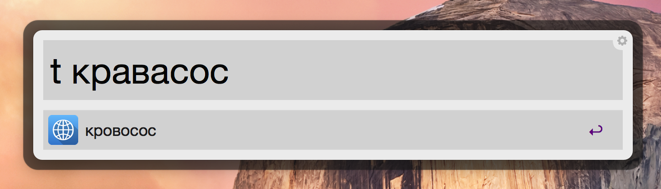
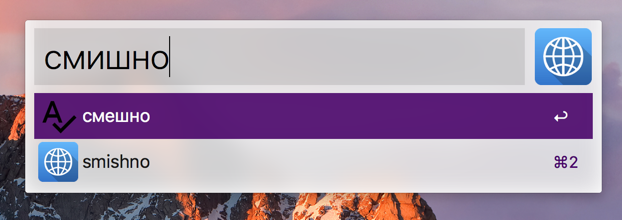
- refactoring - show spellcheck results altogether with translations - speed-up translation by paralleling requests - improve description - update screenshots - update binary

diff --git a/src/translate.py b/src/translate.py
@@ -4,6 +4,8 @@ import urllib
 import urllib2
 import json
 import feedback
+from multiprocessing import Pool
+import re
 
 dict_api_key = 'dict.1.1.20140108T003739Z.52c324b8a4eea3ac.5767100e8cc7b997dad88353e47aa4857e786beb'
 translate_api_key = 'trnsl.1.1.20130512T104455Z.8a0ed400b0d249ba.48af47e72f40c8991e4185556b825273d104af68'
@@ -22,71 +24,134 @@ def get_translation_direction(text):
 		return 'ru-en'
 
 
-def is_word(text):
-	"""Determines word as string without spaces inside"""
-	return not ' ' in text.strip()
+def get_lang(text):
+	"""Returns either 'ru' or 'en' corresponding for text"""
+	if is_ascii(text):
+		return 'en'
+	else:
+		return 'ru'
 
 
-def get_vocabulary_article(word):
-	"""Returns response from vocabulary API"""
-	params = {
+def convert_spelling_suggestions(spelling_suggestions):
+	res = []
+	if len(spelling_suggestions) != 0:
+		for spelling_suggestion in spelling_suggestions:
+			res.append({
+				'title': spelling_suggestion,
+				'autocomplete': spelling_suggestion
+			})
+	return res
+
+
+
+def get_spelling_suggestions(spelling_suggestions):
+	"""Returns spelling suggestions from JSON if any """
+	res = []
+	if spelling_suggestions and spelling_suggestions[0] and spelling_suggestions[0]['s']:
+		res = spelling_suggestions[0]['s']
+	return res
+
+
+
+def get_translation_suggestions(input_string, spelling_suggestions, translation_suggestions, vocabulary_article):
+	"""Returns XML with translate suggestions"""
+	res = []
+	if len(spelling_suggestions) == 0 and len(translation_suggestions) == 0:
+		return res
+
+	if len(vocabulary_article['def']) != 0:
+		for article in vocabulary_article['def']:
+			for translation in article['tr']:
+				if 'ts' in article.keys():
+					subtitle = article['ts']
+				elif 'ts' in translation.keys():
+					subtitle = translation['ts']
+				else:
+					subtitle = ''
+				res.append({
+					'translation': translation['text'],
+					'transcription': subtitle,
+				})
+	if len(res) == 0:
+		if translation_suggestions and len(translation_suggestions['text']) != 0:
+			for translation in translation_suggestions['text']:
+				if translation != input_string.decode('utf-8'):
+					res.append({
+						'translation': translation.replace('\\ ', ' '), # otherwise prints slash before spaces
+						'transcription': ''
+					})
+	return res
+
+
+
+def process_response_as_json(request_url):
+	"""Accepts request url returns response as """
+	request = urllib2.urlopen(request_url)
+	response_json = json.loads(request.read())
+	return response_json
+
+
+
+def get_output(input_string):
+	"""Main entry point"""
+	pool = Pool(processes=3)
+	fb = feedback.Feedback()
+	input_string = input_string.strip()
+	if not input_string:
+		fb.add_item(title="Translation not found", valid="no")
+		return fb
+
+	# Building urls
+	translationDirection = get_translation_direction(input_string)
+
+	# Build spell check url
+	spellCheckParams = {
+		'text': input_string,
+		'lang': get_lang(input_string)
+	}
+	spellCheckUrl = 'https://speller.yandex.net/services/spellservice.json/checkText' + '?' + urllib.urlencode(spellCheckParams)
+
+	# Build article url
+	articleParams = {
 		'key': dict_api_key,
-		'lang': get_translation_direction(word),
-		'text': word,
+		'lang': translationDirection,
+		'text': input_string,
 		'flags': 4
 	}
-	request = urllib2.urlopen('https://dictionary.yandex.net/api/v1/dicservice.json/lookup', urllib.urlencode(params))
-	response_json = json.loads(request.read())
-	return response_json
+	articleUrl = 'https://dictionary.yandex.net/api/v1/dicservice.json/lookup' + '?' + urllib.urlencode(articleParams)
 
-
-def get_translation(text):
-	"""Returns object with translations from API"""
-	params = {
+	# Build translation url
+	translationParams = {
 		'key': translate_api_key,
-		'lang': get_translation_direction(text),
-		'text': text
+		'lang': translationDirection,
+		'text': input_string
 	}
-	request = urllib2.urlopen('https://translate.yandex.net/api/v1.5/tr.json/translate', urllib.urlencode(params))
-	response_json = json.loads(request.read())
-	return response_json
+	translationUrl = 'https://translate.yandex.net/api/v1.5/tr.json/translate' + '?' + urllib.urlencode(translationParams)
 
+	# Making requests in parallel
+	requestsUrls = [spellCheckUrl, translationUrl, articleUrl]
+	responses = pool.map(process_response_as_json, requestsUrls)
 
-def translate_suggestions(text):
-	"""Returns XML with translate suggestions"""
-	fb = feedback.Feedback()
-	if is_word(text):
-		vocabulary_articles = get_vocabulary_article(text)
-		for article in vocabulary_articles['def']:
-			for translation in article['tr']:
-				fb.add_item(title=translation['text'], arg=translation['text'], subtitle=translation['pos'])
-	else:
-		translation_variants = get_translation(text)
-		for translation in translation_variants['text']:
-			fb.add_item(title=translation, arg=translation)
-	return fb
+	spelling_suggestions_items = get_spelling_suggestions(responses[0])
+	# Generate possible xml outputs
+	formatted_spelling_suggestions = convert_spelling_suggestions(spelling_suggestions_items)
+	formated_translation_suggestions = get_translation_suggestions(input_string, spelling_suggestions_items, responses[1], responses[2])
+	words_in_phase = len(re.split(' ', input_string.decode('utf-8')))
 
+	# Output
+	if len(formatted_spelling_suggestions) == 0 and len(formated_translation_suggestions) == 0:
+		fb.add_item(title="Translation not found", valid="no")
+		return fb
 
-def get_spelling_suggestions(text):
-	"""Returns False, if there is no spelling suggestions. Tries to suggest only for words"""
-	if is_word(text):
-		params = {
-			'text': text
-		}
-		request = urllib2.urlopen('http://speller.yandex.net/services/spellservice.json/checkText', urllib.urlencode(params))
-		json_response = json.loads(request.read())
-		if json_response and json_response[0]:
-			return json_response[0]['s']
-		else:
-			return False
-	else:
-		return False
+	# Prepare suggestions output
+	# Spellcheck error
+	if words_in_phase <= 2 and len(formatted_spelling_suggestions) != 0:
+		for spelling_suggestion in formatted_spelling_suggestions:
+			fb.add_item(title=spelling_suggestion['title'],
+				autocomplete=spelling_suggestion['autocomplete'],
+				icon='spellcheck.png')
 
-
-def spelling_suggestions(suggested):
-	"""Accepts spelling suggestions as argument, and returns XMXL with suggestions"""
-	fb = feedback.Feedback()
-	if suggested:
-		for spelling_variant in suggested:
-			fb.add_item(title=spelling_variant, autocomplete=spelling_variant)
+	# Translations output
+	for formatted_translated_suggestion in formated_translation_suggestions:
+		fb.add_item(title=formatted_translated_suggestion['translation'], arg=formatted_translated_suggestion['translation'], subtitle=formatted_translated_suggestion['transcription'])
 	return fb

diff --git a/README.md b/README.md
@@ -1,23 +1,44 @@
-#RU-EN EN-RU Translating Alfred Workflow
+# RU-EN EN-RU Translating Alfred Workflow
 
 [Скачать](https://github.com/podgorniy/alfred-translate/raw/master/Translate.alfredworkflow)
 
-Удобный перевод текстов в en-ru ru-en направлениях. Не нужно указывать направление перевода, работает как с вводимым текстом, так и с выделенным, показывает несколько вариантов перевода для одного слова, автозаполнение для слов с ошибками (**NEW**), результат перевода копируется в буфер обмена. Для работы необходимо интернет соединение.
+Удобный перевод текстов в en-ru ru-en направлениях.
+
+- Переводит русский текст на английский. Английский текс в русский. Не нужно указывать направление перевода.
+- Работает как с вводимым текстом, так и с выделенным.
+- Показывает варианты перевода для одного слова.
+- Показывает транскрипцию при переводе с английского.
+- Исправляет ошибки в словах.
+- Переводит как слова так и предложения.
+- Копирует результат перевода в буфер обмена.
+- Не работает без интернет соединения.
 
 
 Перевод слова, запуск из строки Альфреда по ключевому слову `t`:
+
 ![Скриншот](screenshot-1.png)
 
 
 Перевод выделенного предложения по хоткею. Для себя настроил сочетание `ctrl+shift+t`.
+
 ![Скриншот](screenshot-2.png)
 
 Варианты автодополнения при ошибке в написании слова.
+
 ![Скриншот](screenshot-3.png)
-![Скриншот](screenshot-4.png)
 
 За иконку спасибо [Artem Beztsinnyi](http://bezart.ru).
 
 Альтернативные workflow для перевода:
 
 - [AlfredGoogleTranslateWorkflow](https://github.com/thomashempel/AlfredGoogleTranslateWorkflow)
+
+## Changelog
+
+**2017.04.02**
+
+- Улучшена производительность.
+- Добавлена подсказка ошибок вместе с вариантами перевода.
+
+2015.10.05
+- Добавлено экранирование кавычек `'`.
